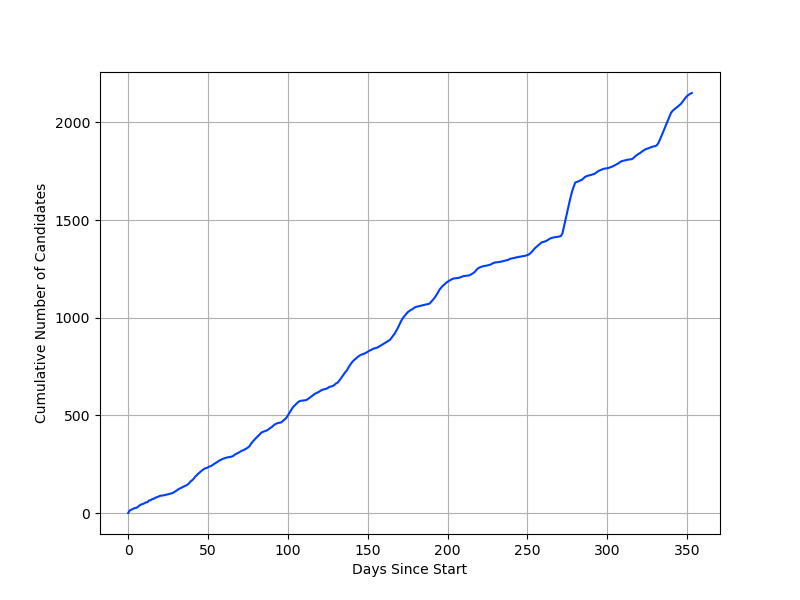
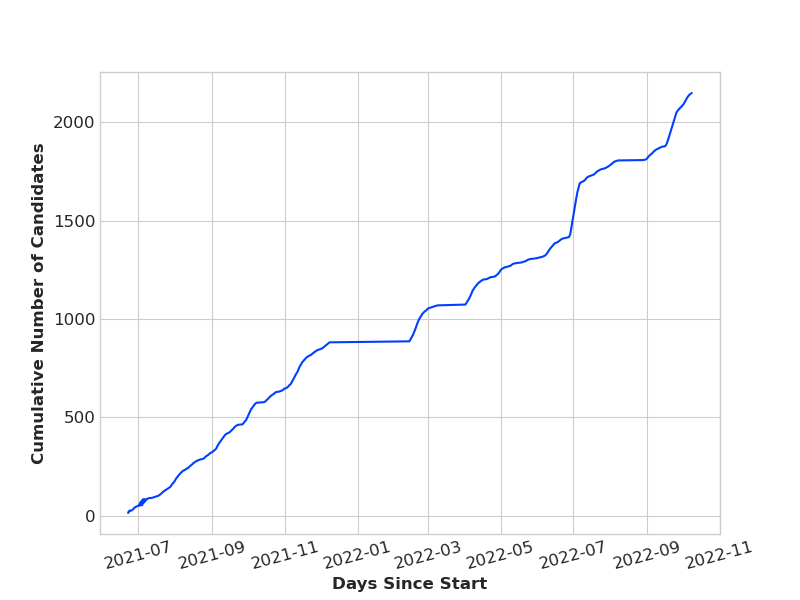
switched cumDailyCand to date

diff --git a/stats.py b/stats.py
@@ -331,7 +331,6 @@ def plotDailyCand(df, save=True):
     dateList = df['stopDate'][dateIdx] ## this is the date of the last observations made for the fitting
     print('dayList: %s'%dayList) if args.verbose else None
     print('dateList: %s'%dateList) if args.verbose else None
-    dayCount = [day for day in range(len(dayList))]
 
     ## get number of candidates per day
     numDaily = np.array([len(df[df['day'] == day]['candPath'].unique()) for day in dayList])
@@ -366,21 +365,26 @@ def plotCumDailyCand(df, save=True):
     save: boolean to determine whether to save the plot or not
     '''
 
-    ## get count of days
+    ## get count of days and unique dates for plotting
     dayList = df['day'].unique()
+    dateIdx = df['day'].drop_duplicates().index
+    dateList = df['stopDate'][dateIdx] ## this is the date of the last observations made for the fitting
     print('dayList: %s'%dayList) if args.verbose else None
-    dayCount = [day for day in range(len(dayList))]
+    print('dateList: %s'%dateList) if args.verbose else None
 
     ## get number of candidates per day
-
-    numDaily = [len(df[df['day'] == day]['candPath'].unique()) for day in dayList]
+    numDaily = np.array([len(df[df['day'] == day]['candPath'].unique()) for day in dayList])
+    print('numDaily: %s'%numDaily) if args.verbose else None
+    print() if args.verbose else None
     
     cumDaily = np.cumsum(numDaily)
     print('cumDaily: %s'%cumDaily) if args.verbose else None
     print() if args.verbose else None
 
-    fig, ax = plt.subplots(figsize=(8,6), facecolor='white')
-    ax.plot(dayCount,cumDaily)
+    ## plot cumulative number of candidates per day
+    fig, ax = plotstyle(figsize=(8,6), facecolor='white')
+    ax.plot(dateList,cumDaily)
+    plt.xticks(rotation=15)
     ax.set_xlabel("Days Since Start")
     ax.set_ylabel('Cumulative Number of Candidates')
     plt.savefig(plotDir("cumDailyCand")) if save else None
@@ -824,22 +828,22 @@ df = get_dataframe(candDir=args.candDir, models=args.models, save=False, file=ar
 plotDailyCand(df=df,save=True)
 print('completed daily candidate plot (1)') if args.verbose else None
 print() if args.verbose else None
-exit()
+
 plotCumDailyCand(df=df)
 print('completed cumulative daily candidate plot (2)') if args.verbose else None
 print() if args.verbose else None
+exit()
+plotDailyCandRolling(df=df)
+print('completed daily candidate rolling average plot (3)') if args.verbose else None
+print() if args.verbose else None
 
-# plotDailyCandRolling(df=df)
-# print('completed daily candidate rolling average plot (3)') if args.verbose else None
-# print() if args.verbose else None
+plotFitCum(df=df)
+print('completed cumulative fit plot (4)') if args.verbose else None
+print() if args.verbose else None
 
-# plotFitCum(df=df)
-# print('completed cumulative fit plot (4)') if args.verbose else None
-# print() if args.verbose else None
-
-# plotUnfit(df=df)
-# print('completed unfit candidate plot (5)') if args.verbose else None
-# print() if args.verbose else None
+plotUnfit(df=df)
+print('completed unfit candidate plot (5)') if args.verbose else None
+print() if args.verbose else None
 
 plotSamplingTime(df=df)
 print('completed sampling time plot (6)') if args.verbose else None
